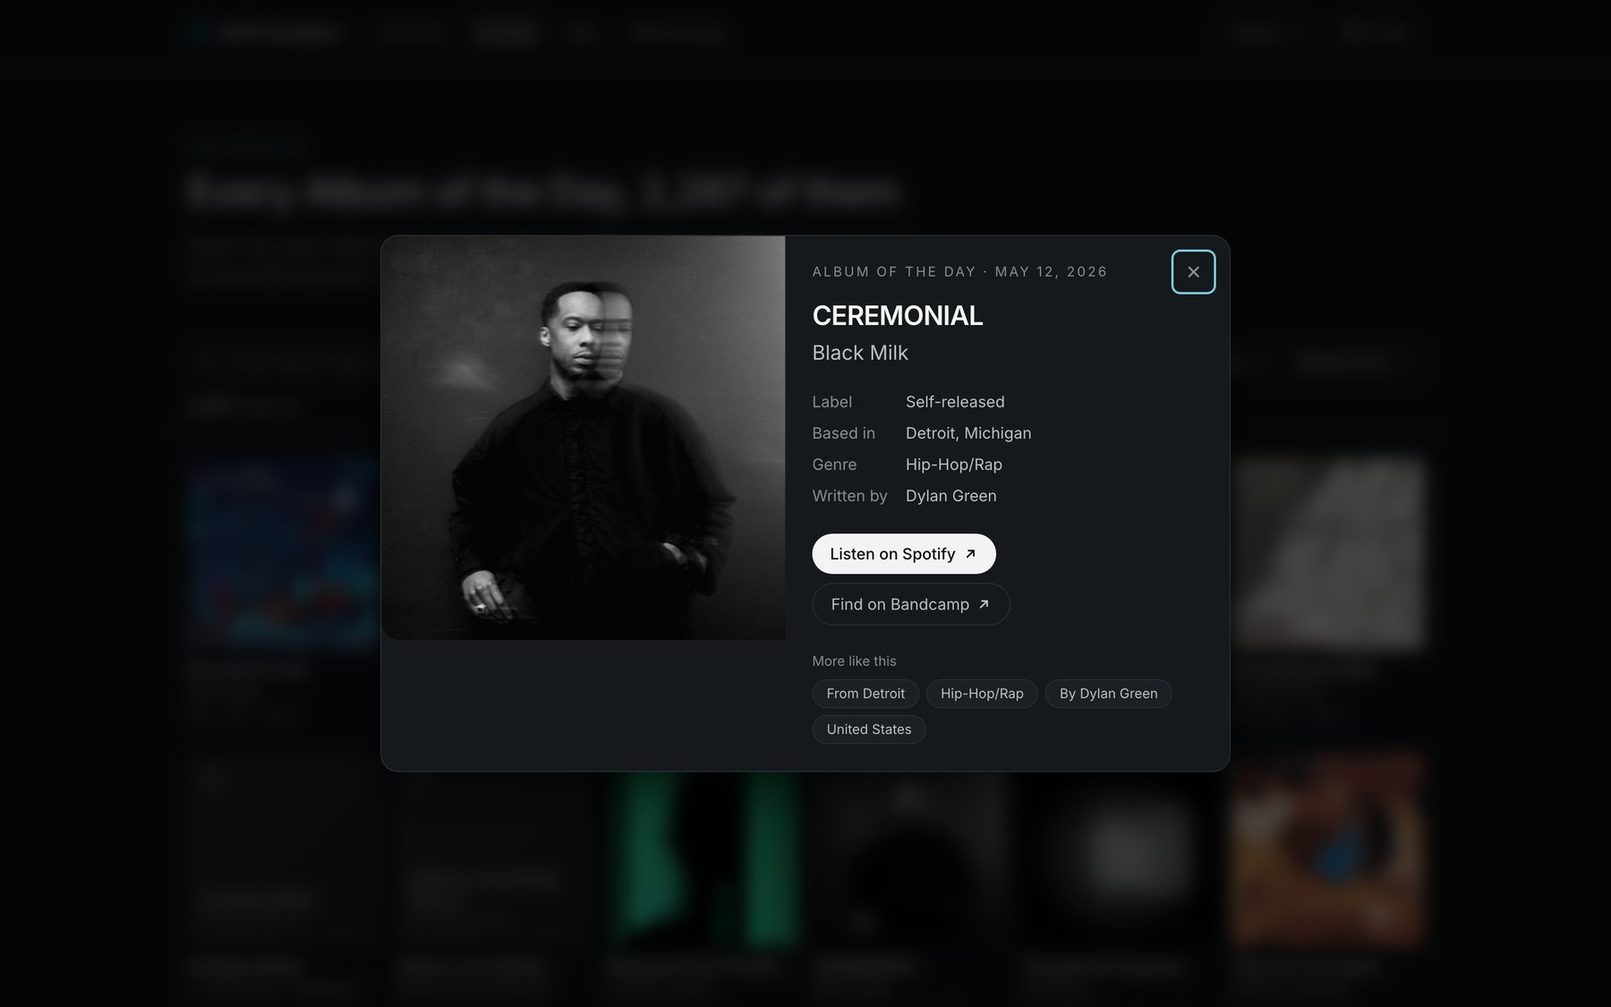
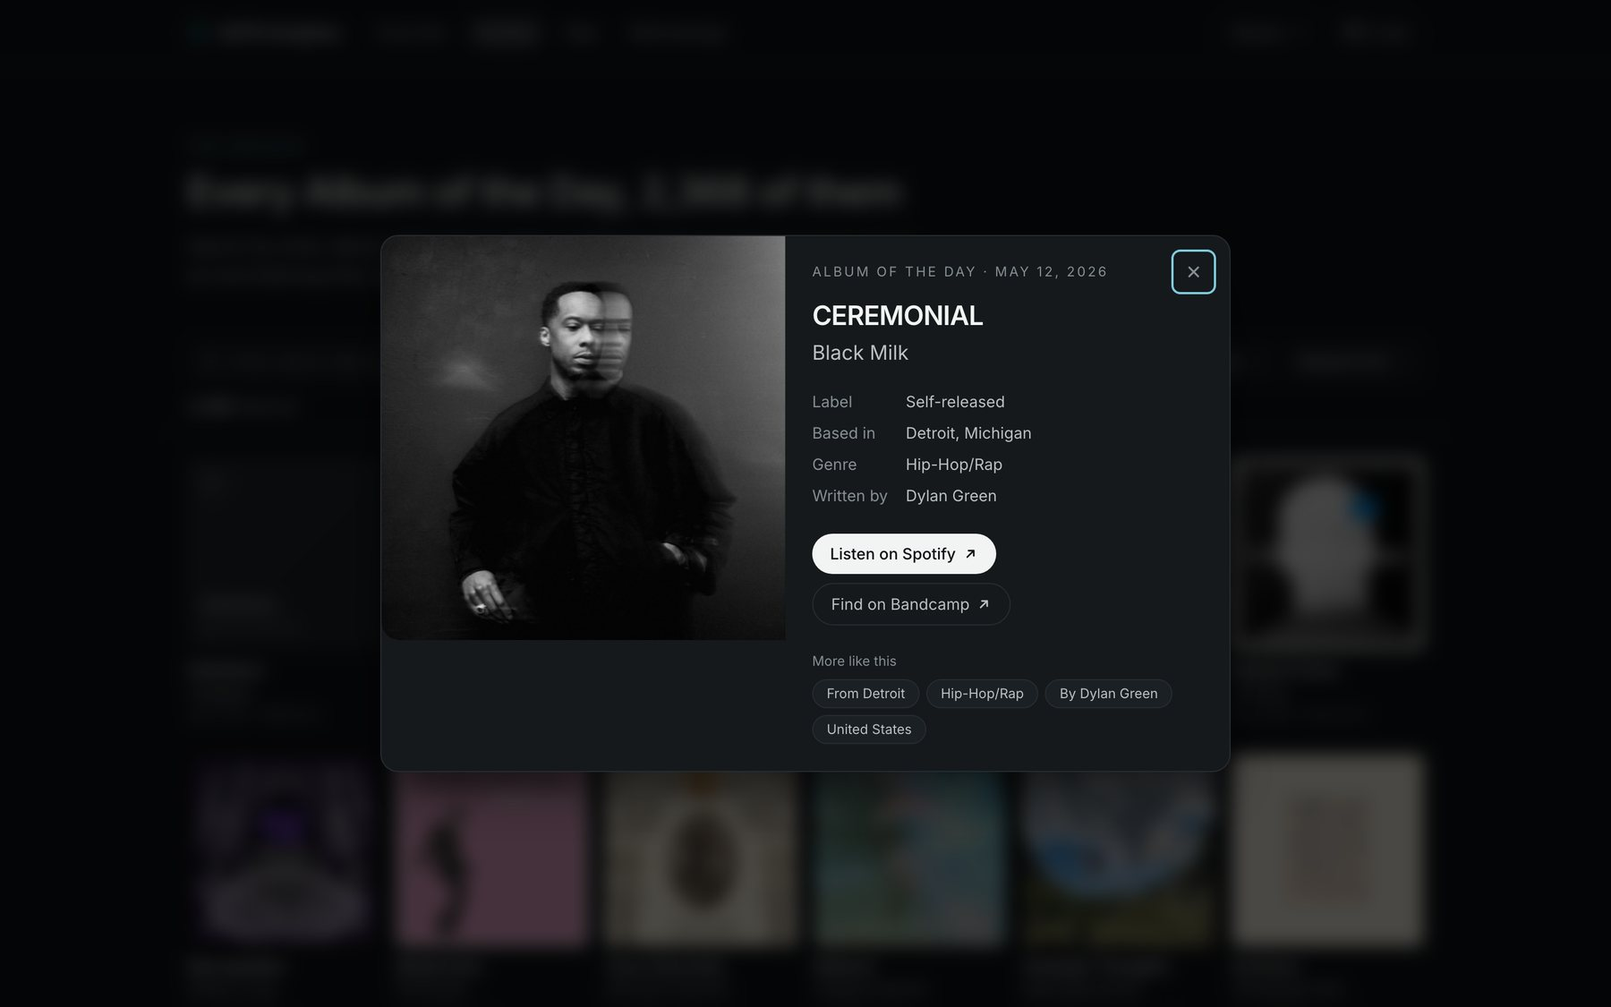
Keep the app's narrative right as the data changes
- City scenes: the paragraph assumed the top-lift pair was thin. When
  Nashville country crossed the 5-feature bar it read 'rests on just 5
  records ... Nashville country ... are the credible scenes'. The
  wording now branches on the evidence and names the two best-evidenced
  pairs besides the top one.
- The Bristol caveat is replaced with one that stays true.
- The US-share paragraph notes a partial-year rebound when there is one,
  and the chart's end label moves below its dot when it would collide
  with the reference label.
- The roster share counts every feature since 2024, as notebook 06
  does (70%, not 71%).
- Numbers round half up via a fixed() helper: toFixed turned the SQL's
  13.95 into 13.9 and 0.235 into 0.23, disagreeing with Tableau and
  the docs.
- Methodology computes places and countries instead of hard-coding
  them; the page description no longer embeds a row count.
- Screenshots re-captured from the refreshed data.

diff --git a/app/src/app/page.tsx b/app/src/app/page.tsx
@@ -5,13 +5,17 @@ import WriterScatter from "@/components/charts/WriterScatter";
 import Cover from "@/components/Cover";
 import DataTable from "@/components/DataTable";
 import { ButtonLink, Card, Caveat, ChartTitle, Container, Eyebrow, Stat } from "@/components/ui";
-import { fmtInt, fmtPct } from "@/lib/format";
+import { fmtInt, fmtPct, fixed } from "@/lib/format";
 import { TABLEAU_URL } from "@/lib/links";
 import { getCountries, getHeadline, getLatestWithCovers, getRosterShift, getScenes, getWriters, getYearly } from "@/lib/queries";
 
 // Statically generated, then regenerated at most once a day. If the database
 // is unreachable during a regeneration, the last good page keeps serving.
 export const revalidate = 86400;
+
+// A city/genre pair needs this many features before its lift is called
+// credible - the same bar the chart uses to colour a bar teal rather than grey.
+const STRONG_EVIDENCE = 5;
 
 function Finding({
   n,
@@ -82,10 +86,15 @@ export default async function Home() {
   const specialist = regulars[0];
   const prolific = writers[0];
 
-  // Scenes: the highest lift, and the highest lift that clears the evidence bar.
+  // Scenes: the highest lift, and the two best-evidenced pairs besides it. The
+  // wording can't assume the top pair is thin - small bases move fast, and a
+  // refresh can push it over the evidence bar.
   const top = scenes[0];
-  const credible = scenes.find((s) => s.features >= 5)!;
-  const biggest = scenes.filter((s) => s.features >= 5).sort((a, b) => b.features - a.features)[0];
+  const topIsThin = top.features < STRONG_EVIDENCE;
+  const [best1, best2] = scenes
+    .filter((s) => s !== top && s.features >= STRONG_EVIDENCE)
+    .sort((a, b) => b.features - a.features);
+  const sceneName = (s: (typeof scenes)[number]) => `${s.city} ${s.genre.toLowerCase()}`;
 
   return (
     <>
@@ -139,7 +148,7 @@ export default async function Home() {
       <Finding
         n="01"
         kicker="Geography"
-        title={`The US share of coverage fell from ${peak.usShare.toFixed(0)}% to ${lastFull.usShare.toFixed(0)}%`}
+        title={`The US share of coverage fell from ${fixed(peak.usShare, 0)}% to ${fixed(lastFull.usShare, 0)}%`}
         chart={
           <>
             <ChartTitle
@@ -152,9 +161,9 @@ export default async function Home() {
               yTicks={[0, 25, 50, 75]}
               labelAt={[peak.year, lastFull.year, lastYear.year]}
               partialLast={partial}
-              reference={{ y: h.usShare, label: `All-time ${h.usShare.toFixed(1)}%` }}
+              reference={{ y: h.usShare, label: `All-time ${fixed(h.usShare, 1)}%` }}
               valueLabel="from US labels"
-              ariaLabel={`Line chart: US share of features by year, from ${peak.usShare.toFixed(1)}% in ${peak.year} to ${lastFull.usShare.toFixed(1)}% in ${lastFull.year}.`}
+              ariaLabel={`Line chart: US share of features by year, from ${fixed(peak.usShare, 1)}% in ${peak.year} to ${fixed(lastFull.usShare, 1)}% in ${lastFull.year}.`}
             />
             <DataTable
               caption="US share of Album of the Day features by year"
@@ -175,12 +184,16 @@ export default async function Home() {
         </p>
         <p>
           The US share peaked at {fmtPct(peak.usShare)} in {peak.year}, moved between{" "}
-          {Math.min(...plateau.map((r) => r.usShare)).toFixed(0)}% and {Math.max(...plateau.map((r) => r.usShare)).toFixed(0)}% for the
-          next {plateau.length} years, then dropped sharply to {fmtPct(lastFull.usShare)} in {lastFull.year}. Output stayed flat at about {avgPerYear} features a year, so international
-          coverage grew by <em>reallocating</em> attention, not by adding more of it.
+          {fixed(Math.min(...plateau.map((r) => r.usShare)), 0)}% and {fixed(Math.max(...plateau.map((r) => r.usShare)), 0)}% for the
+          next {plateau.length} years, then dropped sharply to {fmtPct(lastFull.usShare)} in {lastFull.year}
+          {partial && lastYear.usShare - lastFull.usShare > 2 && (
+            <> ({lastYear.year} so far is back up to {fmtPct(lastYear.usShare)}, so {lastFull.year} may prove the low point)</>
+          )}
+          . Output stayed flat at about {avgPerYear} features a year, so international coverage grew by <em>reallocating</em>{" "}
+          attention, not by adding more of it.
         </p>
         <p>
-          It wasn&apos;t a change of writers. {roster.continuingShare.toFixed(0)}% of features since 2024 came from people already
+          It wasn&apos;t a change of writers. {fixed(roster.continuingShare, 0)}% of features since 2024 came from people already
           writing for the section in 2018–23, and those same {roster.writers} writers&apos; US share fell from{" "}
           {fmtPct(roster.before)} to {fmtPct(roster.after)}. The shift happened inside the existing roster.
         </p>
@@ -204,9 +217,9 @@ export default async function Home() {
               yTicks={[0, 25, 50, 75, 100]}
               labelAt={[yearly.find((r) => r.indieShare === indieMin)!.year, yearly.find((r) => r.indieShare === indieMax)!.year]}
               partialLast={partial}
-              reference={{ y: h.indieShare, label: `All-time ${h.indieShare.toFixed(1)}%` }}
+              reference={{ y: h.indieShare, label: `All-time ${fixed(h.indieShare, 1)}%` }}
               valueLabel="self-released"
-              ariaLabel={`Line chart: self-released share by year, ranging from ${indieMin.toFixed(1)}% to ${indieMax.toFixed(1)}%.`}
+              ariaLabel={`Line chart: self-released share by year, ranging from ${fixed(indieMin, 1)}% to ${fixed(indieMax, 1)}%.`}
             />
             <DataTable
               caption="Self-released share of features by year"
@@ -222,13 +235,13 @@ export default async function Home() {
       >
         <p>
           <strong className="font-semibold text-ink">{fmtPct(h.indieShare)}</strong> of Album of the Day features credit no label at
-          all, and the ratio has stayed between {indieMin.toFixed(0)}% and {indieMax.toFixed(0)}% every year. The section&apos;s
+          all, and the ratio has stayed between {fixed(indieMin, 0)}% and {fixed(indieMax, 0)}% every year. The section&apos;s
           centre of gravity isn&apos;t small labels. It&apos;s artists with no label.
         </p>
         <p>
-          The spread by country is wide. Among countries with 30+ features, {hi1.country} ({hi1.indieShare.toFixed(0)}%) and{" "}
-          {hi2.country} ({hi2.indieShare.toFixed(0)}%) run well above average, while {lo1.country} ({lo1.indieShare.toFixed(0)}%) and{" "}
-          {lo2.country} ({lo2.indieShare.toFixed(0)}%) run well below. That points to different independent-music infrastructures
+          The spread by country is wide. Among countries with 30+ features, {hi1.country} ({fixed(hi1.indieShare, 0)}%) and{" "}
+          {hi2.country} ({fixed(hi2.indieShare, 0)}%) run well above average, while {lo1.country} ({fixed(lo1.indieShare, 0)}%) and{" "}
+          {lo2.country} ({fixed(lo2.indieShare, 0)}%) run well below. That points to different independent-music infrastructures
           rather than different editorial treatment.
         </p>
         <Caveat>
@@ -257,7 +270,7 @@ export default async function Home() {
                 { label: "Reviews", value: (r) => r.reviews, numeric: true },
                 { label: "Genres", value: (r) => r.genres, numeric: true },
                 { label: "Countries", value: (r) => r.countries, numeric: true },
-                { label: "Entropy (bits)", value: (r) => r.entropy.toFixed(2), numeric: true },
+                { label: "Entropy (bits)", value: (r) => fixed(r.entropy, 2), numeric: true },
                 { label: "Self-released", value: (r) => fmtPct(r.indieShare, 0), numeric: true },
               ]}
             />
@@ -271,7 +284,7 @@ export default async function Home() {
         </p>
         <p>
           They also cover very different ground. {specialist.author} has covered just {specialist.genres} genres in{" "}
-          {specialist.reviews} reviews ({specialist.entropy.toFixed(2)} bits); {prolific.author} spans {prolific.genres} genres and{" "}
+          {specialist.reviews} reviews ({fixed(specialist.entropy, 2)} bits); {prolific.author} spans {prolific.genres} genres and{" "}
           {prolific.countries} countries across {prolific.reviews}. Chi-square tests against the archive-wide genre mix show
           significant deviations for most of the top 15.
         </p>
@@ -292,7 +305,7 @@ export default async function Home() {
               title="Genres a city over-indexes on (lift)"
               subtitle="Lift = genre's share of a city's features ÷ its share of the whole archive. Top 12 pairs."
             />
-            <LiftBars scenes={scenes} />
+            <LiftBars scenes={scenes} strongMin={STRONG_EVIDENCE} />
             <DataTable
               caption="City and genre lift"
               rows={scenes}
@@ -301,7 +314,7 @@ export default async function Home() {
                 { label: "Genre", value: (r) => r.genre },
                 { label: "Features", value: (r) => r.features, numeric: true },
                 { label: "City total", value: (r) => r.cityFeatures, numeric: true },
-                { label: "Lift", value: (r) => `${r.lift.toFixed(2)}×`, numeric: true },
+                { label: "Lift", value: (r) => `${fixed(r.lift, 2)}×`, numeric: true },
               ]}
             />
           </>
@@ -313,14 +326,21 @@ export default async function Home() {
           cities with 10+ tagged features and pairs with 3+.
         </p>
         <p>
-          Even then, evidence matters more than the ratio. The highest lift, {top.city} {top.genre.toLowerCase()} ({top.lift.toFixed(1)}×),
-          rests on just {top.features} records. {credible.city} {credible.genre.toLowerCase()} ({credible.features} of{" "}
-          {credible.cityFeatures} features) and {biggest.city} {biggest.genre.toLowerCase()} ({biggest.features} of {biggest.cityFeatures})
-          are the credible scenes.
+          Even then, evidence matters more than the ratio. The highest lift, {sceneName(top)} ({fixed(top.lift, 1)}×), rests on{" "}
+          {topIsThin
+            ? `just ${top.features} records.`
+            : `${top.features} of ${top.cityFeatures} features: over the bar, but a base that small moves several points with every new feature.`}{" "}
+          {best1 && best2 && (
+            <>
+              The best-evidenced scenes are {sceneName(best1)} ({best1.features} of {best1.cityFeatures} features) and{" "}
+              {sceneName(best2)} ({best2.features} of {best2.cityFeatures}).
+            </>
+          )}
         </p>
         <Caveat>
-          Several of music writing&apos;s favourite associations, like Bristol and trip-hop, don&apos;t clear the floor. That&apos;s not
-          because they&apos;re false; the archive just doesn&apos;t have enough features from those cities to test them.
+          Some of music writing&apos;s favourite associations can&apos;t be tested here at all. Trip-hop isn&apos;t one of Bandcamp&apos;s
+          genre tags, so Bristol&apos;s reputation has no column to show up in. Absence from this chart isn&apos;t evidence against a
+          scene.
         </Caveat>
       </Finding>
 

diff --git a/app/src/components/charts/LiftBars.tsx b/app/src/components/charts/LiftBars.tsx
@@ -3,6 +3,7 @@
 import { useRef, useState, type FocusEvent, type PointerEvent } from "react";
 import type { Scene } from "@/lib/queries";
 import { Tooltip, TipRow, TipTitle } from "./shared";
+import { fixed } from "@/lib/format";
 
 /**
  * City x genre lift, with the evidence printed beside every bar.
@@ -51,7 +52,7 @@ export default function LiftBars({ scenes, strongMin = 5 }: { scenes: Scene[]; s
               onPointerLeave={() => setTip(null)}
               onFocus={onFocus(s)}
               onBlur={() => setTip(null)}
-              aria-label={`${s.city}, ${s.genre}: lift ${s.lift.toFixed(1)}, ${s.features} of ${s.cityFeatures} features`}
+              aria-label={`${s.city}, ${s.genre}: lift ${fixed(s.lift, 1)}, ${s.features} of ${s.cityFeatures} features`}
               className="grid grid-cols-[1fr_auto] items-center gap-x-3 rounded-md px-2 py-1.5 outline-offset-0 hover:bg-surface-2 sm:grid-cols-[11rem_1fr_6.5rem]"
             >
               <div className="col-span-2 truncate text-sm sm:col-span-1">
@@ -73,7 +74,7 @@ export default function LiftBars({ scenes, strongMin = 5 }: { scenes: Scene[]; s
                   className="absolute top-1/2 -translate-y-1/2 pl-1.5 text-xs font-semibold text-ink tnum"
                   style={{ left: `${(s.lift / max) * 100}%` }}
                 >
-                  {s.lift.toFixed(1)}×
+                  {fixed(s.lift, 1)}×
                 </span>
               </div>
               <div className="text-right text-xs text-ink-2 tnum">
@@ -91,14 +92,14 @@ export default function LiftBars({ scenes, strongMin = 5 }: { scenes: Scene[]; s
             {tip.s.city}
             {tip.s.state ? `, ${tip.s.state}` : `, ${tip.s.country}`} · {tip.s.genre}
           </TipTitle>
-          <TipRow value={`${tip.s.lift.toFixed(1)}×`} label="lift" keyColor={tip.s.features >= strongMin ? "var(--series)" : "var(--deemph)"} />
+          <TipRow value={`${fixed(tip.s.lift, 1)}×`} label="lift" keyColor={tip.s.features >= strongMin ? "var(--series)" : "var(--deemph)"} />
           <div className="mt-1 space-y-0.5 text-ink-2">
             <div>
-              <span className="text-ink tnum">{(tip.s.cityShare * 100).toFixed(0)}%</span> of {tip.s.city}&apos;s features
+              <span className="text-ink tnum">{fixed(tip.s.cityShare * 100, 0)}%</span> of {tip.s.city}&apos;s features
               ({tip.s.features}/{tip.s.cityFeatures})
             </div>
             <div>
-              vs <span className="text-ink tnum">{(tip.s.globalShare * 100).toFixed(1)}%</span> of the whole archive
+              vs <span className="text-ink tnum">{fixed(tip.s.globalShare * 100, 1)}%</span> of the whole archive
             </div>
           </div>
         </Tooltip>

diff --git a/app/src/lib/queries.ts b/app/src/lib/queries.ts
@@ -33,6 +33,7 @@ export const getHealth = cache(async (): Promise<Health> => {
 export type Headline = {
   features: number;
   countries: number;
+  places: number;
   writers: number;
   labels: number;
   indieShare: number;
@@ -57,6 +58,7 @@ export const getHeadline = cache(async (): Promise<Headline> => {
     SELECT
       COUNT(*)::int                                                     AS features,
       COUNT(DISTINCT country)::int                                      AS countries,
+      COUNT(DISTINCT location_clean)::int                               AS places,
       COUNT(DISTINCT author)::int                                       AS writers,
       COUNT(DISTINCT record_label) FILTER (WHERE NOT is_independent)::int AS labels,
       (100 * AVG(is_independent::int))::float8                          AS "indieShare",
@@ -114,6 +116,9 @@ export const getRosterShift = cache(async (): Promise<RosterShift> => {
       SELECT author FROM located WHERE year BETWEEN 2018 AND 2023
       INTERSECT
       SELECT author FROM located WHERE year >= 2024
+    ),
+    since_2024 AS (   -- every feature, located or not, as notebook 06 counts it
+      SELECT author FROM bandcamp.vw_article WHERE year >= 2024
     )
     SELECT
       (SELECT COUNT(*) FROM continuing)::int AS writers,
@@ -121,8 +126,8 @@ export const getRosterShift = cache(async (): Promise<RosterShift> => {
                               AND author IN (SELECT author FROM continuing)))::float8 AS before,
       (100 * AVG(us) FILTER (WHERE year >= 2024
                               AND author IN (SELECT author FROM continuing)))::float8 AS after,
-      (100.0 * COUNT(*) FILTER (WHERE year >= 2024 AND author IN (SELECT author FROM continuing))
-             / NULLIF(COUNT(*) FILTER (WHERE year >= 2024), 0))::float8 AS "continuingShare"
+      (SELECT 100.0 * COUNT(*) FILTER (WHERE author IN (SELECT author FROM continuing))
+              / NULLIF(COUNT(*), 0) FROM since_2024)::float8 AS "continuingShare"
     FROM located`;
   return row;
 });

diff --git a/app/src/components/charts/LineChart.tsx b/app/src/components/charts/LineChart.tsx
@@ -2,6 +2,7 @@
 
 import { useState, type KeyboardEvent, type PointerEvent } from "react";
 import { linear, Tooltip, TipRow, TipTitle, useWidth } from "./shared";
+import { fixed } from "@/lib/format";
 
 export type LinePoint = { x: number; y: number; note?: string };
 
@@ -19,7 +20,7 @@ type Props = {
   height?: number;
 };
 
-const fmt = (v: number) => `${v.toFixed(1)}%`;
+const fmt = (v: number) => `${fixed(v, 1)}%`;
 
 export default function LineChart({
   data,
@@ -43,8 +44,10 @@ export default function LineChart({
   const everyOther = width < 520;
   const last = data.length - 1;
   // The end value sits right of its dot unless that would collide with the
-  // reference label in the same gutter - then it moves above the dot.
+  // reference label in the same gutter - then it moves to whichever side of
+  // the dot is away from the reference line.
   const endBesideDot = !reference || Math.abs(y(data[last].y) - y(reference.y)) > 16;
+  const endBelow = !!reference && data[last].y < reference.y;
 
   const nearest = (px: number) => {
     let best = 0;
@@ -131,7 +134,7 @@ export default function LineChart({
               {labelled && (
                 <text
                   x={i === last && endBesideDot ? x(p.x) + 9 : x(p.x)}
-                  y={i === last && endBesideDot ? y(p.y) : y(p.y) - 12}
+                  y={i === last && endBesideDot ? y(p.y) : i === last && endBelow ? y(p.y) + 20 : y(p.y) - 12}
                   dy={i === last && endBesideDot ? "0.32em" : undefined}
                   textAnchor={i === last && endBesideDot ? "start" : "middle"}
                   className="fill-ink text-[12px] font-semibold tnum"

diff --git a/app/src/app/methodology/page.tsx b/app/src/app/methodology/page.tsx
@@ -22,7 +22,7 @@ const STAGES = [
   {
     name: "Transform",
     path: "src/bandcamp_aotd/transform",
-    body: "A nine-step cleaner turns 422 raw location strings into 407 places across 80 countries. Calendar fields are derived, and each article gets a SHA-1 content-hash key.",
+    body: "A nine-step cleaner turns free-text label locations into {places} places across {countries} countries, with none left unresolved. Calendar fields are derived, and each article gets a SHA-1 content-hash key.",
   },
   {
     name: "Enrich",
@@ -115,7 +115,9 @@ export default async function Methodology() {
             <li key={s.name} className="relative rounded-xl border border-line bg-surface p-5">
               <p className="text-xs text-muted tnum">0{i + 1}</p>
               <h3 className="mt-1 font-semibold text-ink">{s.name}</h3>
-              <p className="mt-2 text-sm leading-relaxed text-ink-2">{s.body}</p>
+              <p className="mt-2 text-sm leading-relaxed text-ink-2">
+                {s.body.replace("{places}", fmtInt(h.places)).replace("{countries}", fmtInt(h.countries))}
+              </p>
               <a href={`${REPO_URL}/tree/main/${s.path}`} target="_blank" rel="noreferrer" className="mt-3 inline-block font-mono text-[11px] text-accent hover:underline">
                 {s.path.replace("src/bandcamp_aotd/", "")}/
               </a>

diff --git a/app/src/components/charts/WriterScatter.tsx b/app/src/components/charts/WriterScatter.tsx
@@ -3,6 +3,7 @@
 import { useState, type KeyboardEvent, type PointerEvent } from "react";
 import type { Writer } from "@/lib/queries";
 import { linear, Tooltip, TipRow, TipTitle, useWidth } from "./shared";
+import { fixed } from "@/lib/format";
 
 /**
  * Reviews (x) against genre entropy (y). Specialists sit low, generalists
@@ -128,14 +129,14 @@ export default function WriterScatter({ writers, labelNames }: { writers: Writer
       {a && (
         <Tooltip x={x(a.reviews)} y={y(a.entropy)} containerWidth={width}>
           <TipTitle>{a.author}</TipTitle>
-          <TipRow value={a.entropy.toFixed(2)} label="bits of genre spread" keyColor="var(--series)" />
+          <TipRow value={fixed(a.entropy, 2)} label="bits of genre spread" keyColor="var(--series)" />
           <div className="mt-1 space-y-0.5 text-ink-2">
             <div>
               <span className="text-ink tnum">{a.reviews}</span> reviews · <span className="text-ink tnum">{a.genres}</span> genres ·{" "}
               <span className="text-ink tnum">{a.countries}</span> countries
             </div>
             <div>
-              <span className="text-ink tnum">{a.indieShare.toFixed(0)}%</span> self-released
+              <span className="text-ink tnum">{fixed(a.indieShare, 0)}%</span> self-released
             </div>
           </div>
         </Tooltip>

diff --git a/app/src/lib/format.ts b/app/src/lib/format.ts
@@ -2,7 +2,16 @@ const nf = new Intl.NumberFormat("en-US");
 
 export const fmtInt = (n: number) => nf.format(Math.round(n));
 
-export const fmtPct = (n: number, digits = 1) => `${n.toFixed(digits)}%`;
+/**
+ * Round half up, then format. Number#toFixed rounds some halves *down* -
+ * 13.95.toFixed(1) is "13.9" because 13.95 is stored as 13.9499999... - so
+ * values the SQL layer already rounded (lift 13.95, entropy 0.235) would
+ * disagree with Tableau and the docs by one digit.
+ */
+export const fixed = (n: number, digits = 1) =>
+  (Math.round(n * 10 ** digits + 1e-9) / 10 ** digits).toFixed(digits);
+
+export const fmtPct = (n: number, digits = 1) => `${fixed(n, digits)}%`;
 
 /** "2026-05-26" -> "May 26, 2026". Parsed as UTC so the day never shifts. */
 export function fmtDate(iso: string, opts: Intl.DateTimeFormatOptions = {}) {

diff --git a/app/src/app/opengraph-image.tsx b/app/src/app/opengraph-image.tsx
@@ -1,6 +1,6 @@
 import { ImageResponse } from "next/og";
 import { getHeadline } from "@/lib/queries";
-import { fmtInt } from "@/lib/format";
+import { fmtInt, fixed } from "@/lib/format";
 
 export const alt = "AOTD Analytics: fifteen years of Bandcamp's Album of the Day, in aggregate";
 export const size = { width: 1200, height: 630 };
@@ -13,8 +13,8 @@ export default async function OpengraphImage() {
   const stats = [
     [fmtInt(h.features), "features"],
     [String(h.countries), "countries"],
-    [`${h.usShare.toFixed(0)}%`, "from US labels"],
-    [`${h.indieShare.toFixed(0)}%`, "self-released"],
+    [`${fixed(h.usShare, 0)}%`, "from US labels"],
+    [`${fixed(h.indieShare, 0)}%`, "self-released"],
   ];
   return new ImageResponse(
     (

diff --git a/app/src/app/layout.tsx b/app/src/app/layout.tsx
@@ -15,7 +15,7 @@ export const metadata: Metadata = {
     template: "%s · AOTD Analytics",
   },
   description:
-    "Where does editorial attention go? An end-to-end analytics project on 2,287 Bandcamp Daily Album of the Day features: scraper, Postgres warehouse, SQL semantic layer, Tableau and this web app.",
+    "Where does editorial attention go? An end-to-end analytics project on every Bandcamp Daily Album of the Day since 2011: scraper, Postgres warehouse, SQL semantic layer, Tableau and this web app.",
 };
 
 export default function RootLayout({ children }: LayoutProps<"/">) {
